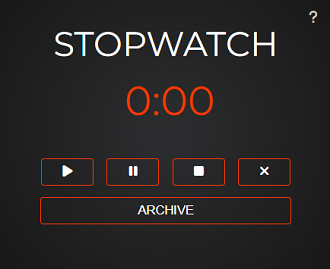
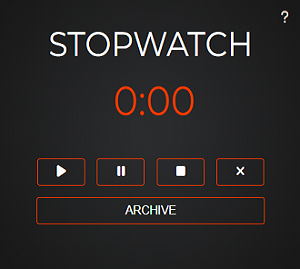
commit

diff --git a/public/index.html b/public/index.html
@@ -144,13 +144,16 @@
   </div>
      <!--PROJECTS  -->
   <section class="p-5 grid md:grid-cols-2 lg:grid-cols-3 gap-10 justify-center md:m-10 lg:m-20">
-    <div class="flex flex-col border-none border-2 shadow-slate-950 shadow-lg overflow-auto rounded-3xl w-fit items-center bg-sky-50 bg-opacity-5 backdrop-blur-xl">
+    <div class="w-fit items-center first-line:flex flex-col border-none border-2 shadow-slate-950 shadow-lg overflow-auto rounded-3xl  bg-sky-50 bg-opacity-5 backdrop-blur-xl">
       <div>
-        <img class="" src="../src/weather-image.png">
+      <div class="">
+          <img class="p-5" src="../src/weather-image2.png">
+        </div>
       </div>
+
       <div class="p-5 flex flex-col gap-3 items-center">
         <h2>Project1</h2>
-        <p class="w-60 text-clip">Project info Project info Project info Project info Project info Project info Project info Project info Project info Project info Project info Project info Project info Project info Project info Project info Project info Project info Project info Project info </p>
+        <p class="w-60 text-clip">Project info Project info Project info Project info Project info Project info Project info Project info Project info Project info Project info Project info Project info Project info Project info </p>
         <span class="text-xs">
           <i class="fa-brands fa-html5"> HTML</i>
           <i class="fa-brands fa-css3-alt"> CSS</i>
@@ -172,7 +175,7 @@
       </div>      
     </div>
     <div class="flex flex-col border-none border-2 shadow-neon overflow-auto rounded-3xl w-fit items-center bg-sky-50 bg-opacity-5 backdrop-blur-xl">
-      <img class="" src="../src/stopwatch.png">
+      <img class="p-5" src="../src/stopwatch2.png">
       <div class="p-5 flex flex-col items-center">
         <h2>Project1</h2>
         <p>Project info</p>
@@ -190,15 +193,14 @@
           </button>
           <button type="button" class="w-20 font-mono text-xl uppercase my-2  md:animate-pulse shadow-neon hover:bg-second rounded-3xl transition ease-in-out hover:-translate-3 hover:scale-110">
             <a href="http://www.google.com" class="flex justify-center py-2" target="_blank">
-            <span class="text-lg">Resume</span>
-            
-             </a>
+            <span class="text-lg">Resume</span>            
+            </a>
           </button>
         </div>
       </div>
     </div>
     <div class="flex flex-col border-none border-2 shadow-xl overflow-auto rounded-3xl w-fit items-center bg-sky-50 bg-opacity-5 backdrop-blur-xl">
-      <img class="" src="../src/weather-image.png">
+      <img class="p-5" src="../src/todo2.png">
       <div class="p-5 flex flex-col items-center">
         <h2>Project1</h2>
         <p>Project info</p>
@@ -222,8 +224,61 @@
         </div>
       </div>      
     </div>
+
     <div class="flex flex-col border-none border-2 shadow-neon2 overflow-auto rounded-3xl w-fit items-center bg-sky-50 bg-opacity-5 backdrop-blur-xl">
       <img class="" src="../src/weather-image2.png">
+      <div class="p-5 flex flex-col items-center">
+        <h2>Project1</h2>
+        <p>Project info</p>
+        <span class="text-xs">
+          <i class="fa-brands fa-html5"> HTML</i>
+          <i class="fa-brands fa-css3-alt"> CSS</i>
+          <i class="fa-brands fa-js"> JS</i>
+          <i class="fa-solid fa-network-wired"> API</i>
+        </span>
+        <div class="buttons">
+          <button type="button" class="w-20 font-mono uppercase my-2  md:animate-pulse shadow-neon hover:bg-second rounded-3xl transition ease-in-out hover:-translate-3 hover:scale-110">
+            <a href="http://www.google.com" class="flex justify-center py-2" target="_blank">
+            <span class="text-lg">Resume</span>            
+            </a>
+          </button>
+          <button type="button" class="w-20 font-mono text-xl uppercase my-2  md:animate-pulse shadow-neon hover:bg-second rounded-3xl transition ease-in-out hover:-translate-3 hover:scale-110">
+            <a href="http://www.google.com" class="flex justify-center py-2" target="_blank">
+            <span class="text-lg">Resume</span>            
+            </a>
+          </button>
+        </div>
+      </div>      
+    </div>
+
+    <div class="flex flex-col border-none border-2 shadow-neon2 overflow-auto rounded-3xl w-fit items-center bg-sky-50 bg-opacity-5 backdrop-blur-xl">
+      <img class="" src="../src/stopwatch2.png">
+      <div class="p-5 flex flex-col items-center">
+        <h2>Project1</h2>
+        <p>Project info</p>
+        <span class="text-xs">
+          <i class="fa-brands fa-html5"> HTML</i>
+          <i class="fa-brands fa-css3-alt"> CSS</i>
+          <i class="fa-brands fa-js"> JS</i>
+          <i class="fa-solid fa-network-wired"> API</i>
+        </span>
+        <div class="buttons">
+          <button type="button" class="w-20 font-mono uppercase my-2  md:animate-pulse shadow-neon hover:bg-second rounded-3xl transition ease-in-out hover:-translate-3 hover:scale-110">
+            <a href="http://www.google.com" class="flex justify-center py-2" target="_blank">
+            <span class="text-lg">Resume</span>            
+            </a>
+          </button>
+          <button type="button" class="w-20 font-mono text-xl uppercase my-2  md:animate-pulse shadow-neon hover:bg-second rounded-3xl transition ease-in-out hover:-translate-3 hover:scale-110">
+            <a href="http://www.google.com" class="flex justify-center py-2" target="_blank">
+            <span class="text-lg">Resume</span>            
+            </a>
+          </button>
+        </div>
+      </div>      
+    </div>
+
+    <div class="flex flex-col border-none border-2 shadow-neon2 overflow-auto rounded-3xl w-fit items-center bg-sky-50 bg-opacity-5 backdrop-blur-xl">
+      <img class="" src="../src/todo2.png">
       <div class="p-5 flex flex-col items-center">
         <h2>Project1</h2>
         <p>Project info</p>
@@ -301,6 +356,7 @@
       </form>          
     </div>          
   </section>
+  <p class="text-xs p-5 ">Credits to: ® Tomasz Nilipiuk</p>
   <script src="index.js"></script>
 </body>
 </html>
